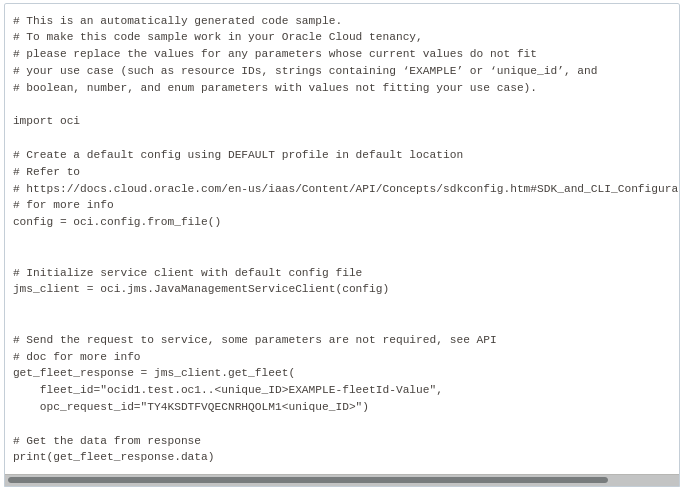
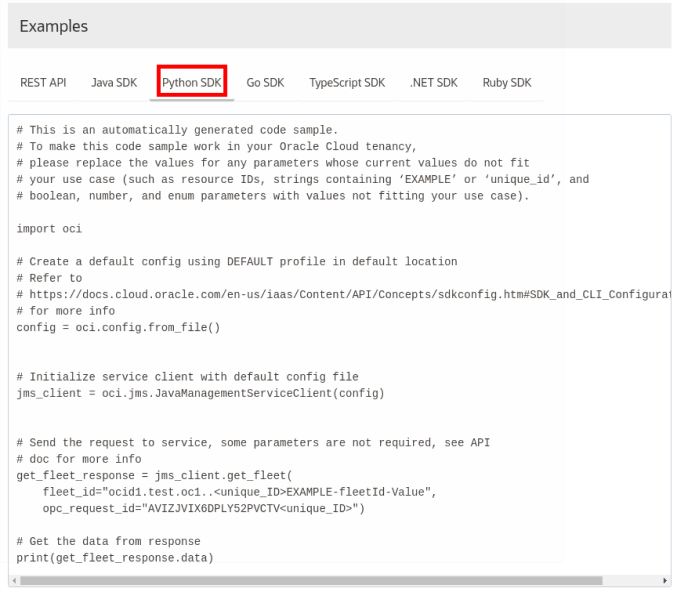
3 Update python SDK

Changed region(s): [[0.0, 0.0307, 0.9926, 1.0], [0.9616, 0.184, 0.9926, 0.2147], [0.8375, 0.2761, 0.8685, 0.3067]]

diff --git a/java-management-oci-services-integration/access-and-utilise-rest-api-via-jms-sdk-postman/access-and-utilise-rest-api-via-jms-sdk-postman.md b/java-management-oci-services-integration/access-and-utilise-rest-api-via-jms-sdk-postman/access-and-utilise-rest-api-via-jms-sdk-postman.md
@@ -165,14 +165,15 @@ In this lab, you will:
       </copy>
       ```   
 
-2. Download the [SDK](https://github.com/oracle/oci-python-sdk/releases) and extract it. Delete the 'venv' folder and copy the rest of the contents to the `testpy` directory created in step 1.
+2. Download the [SDK](https://github.com/oracle/oci-python-sdk/releases) **oci-python-sdk** and extract it. Copy the contents to the `testpy` directory created in step 1. The directory should contain the following:
 
-    ![image of python sdk ](images/python-sdk-contents.png)
+    ![image of python sdk ](images/folder-structure.png)
 
-3. 'testpy' directory should contain the following:
+3. Install `oci` package with:
 
-    ![image of python sdk example code](images/folder-structure.png)
-
+    ```
+    pip install oci
+    ```
 
 4. Access the sample [API](https://docs.oracle.com/en-us/iaas/api/#/en/jms/20210610/Fleet/GetFleet) lab.
     ![image of python sdk example code](images/python-sample-code.png)
@@ -181,9 +182,9 @@ In this lab, you will:
 
     ![image of python sdk example code](images/get-fleet.png)
 
-6. Ensure the file path for the newly created file adheres to the sample SDK code.
+6. Replace the sample `fleet_id`. Refer to [Lab 1 Task 3](?lab=access-and-utilise-rest-api-via-oci-cli#Task3:AccessRESTAPIviaOCICLI) to check how to find the fleet OCID. Comment or delete the `opc_request_id` line.
 
-    ![image of python sdk example code](images/python-sdk-response.png)
+    ![image of python sdk example code](images/python-sdk-change.png)
 
 7. Run it in the virtual environment created.
 
